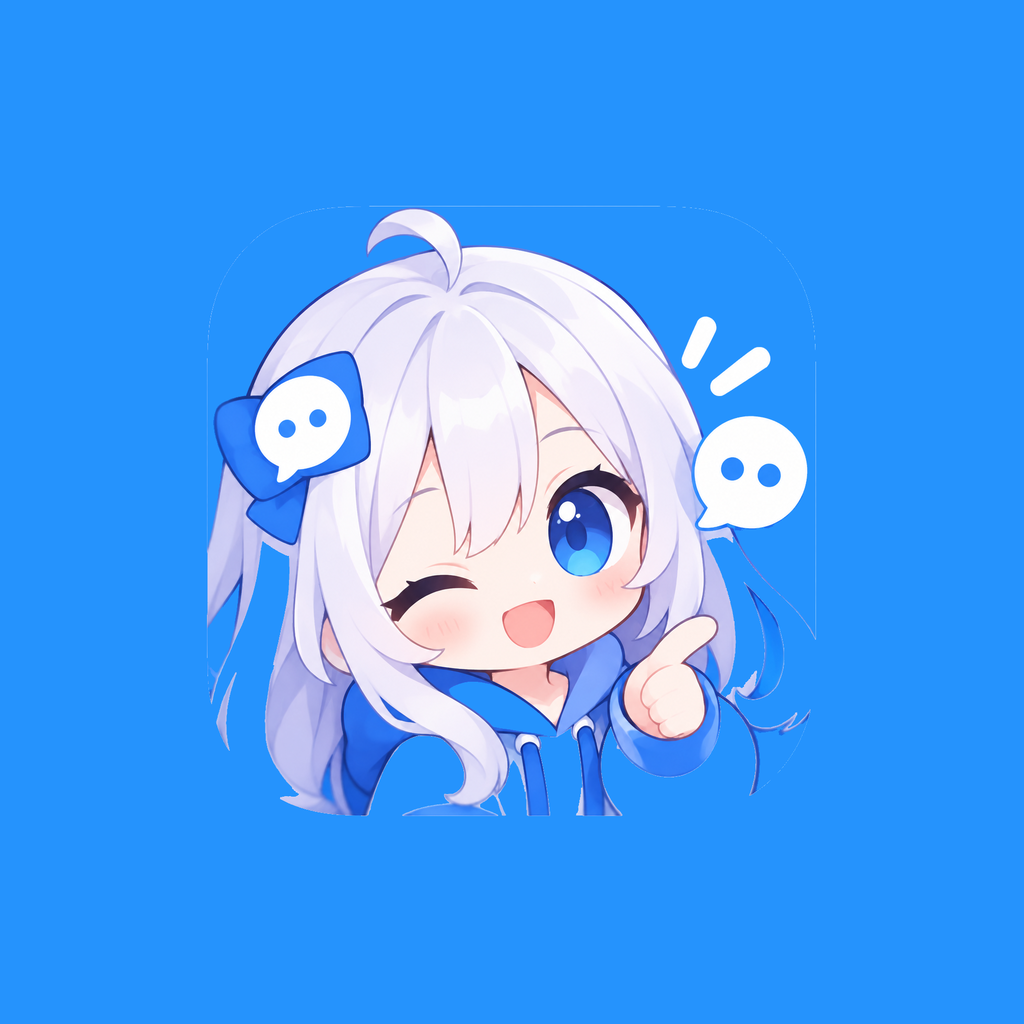
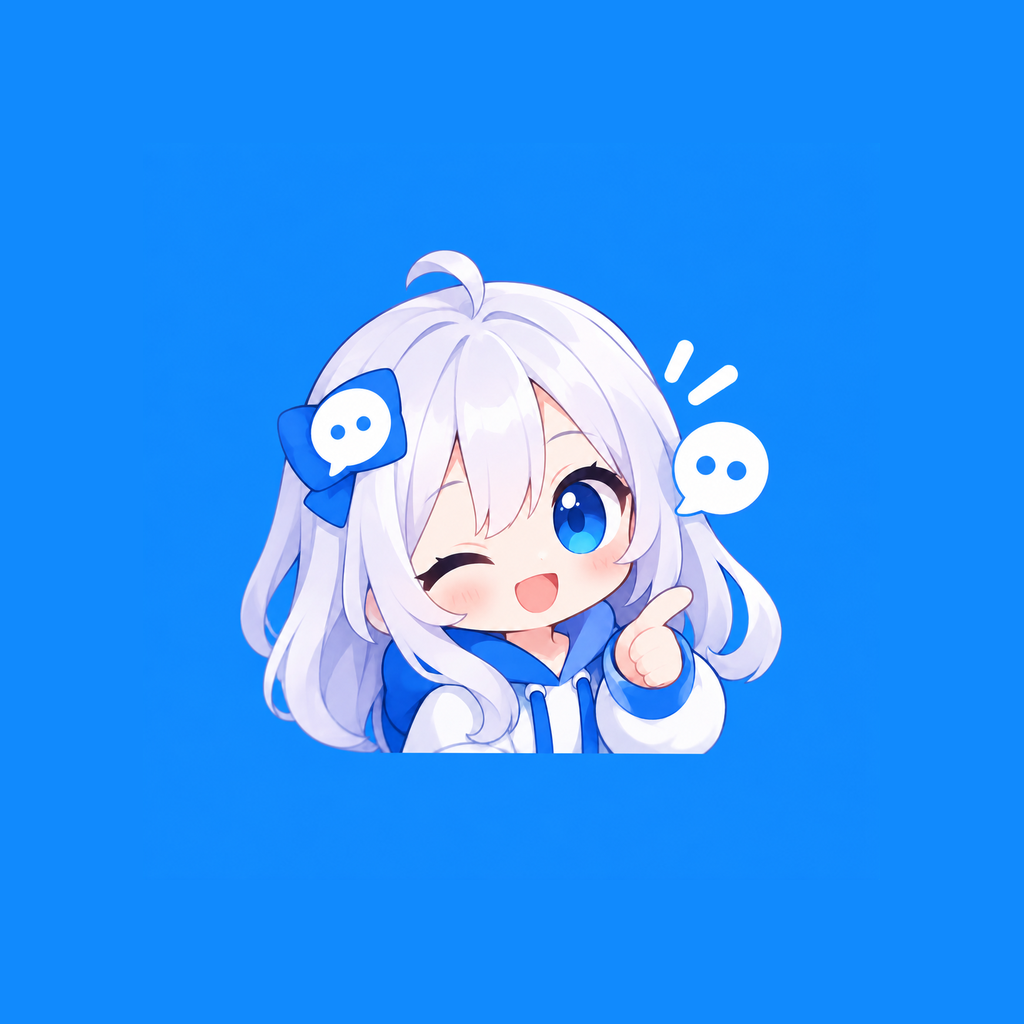
fix(assets): 更换为生图模型重做的 app 图标
- 用户用图生图重做：角色不变、蓝底铺满、四周留白 13%~17%，
  白发/发饰/手完整，不再有上一版抠图造成的断线
- 只做等比缩放到 1024 并居中（不抠图、不填色），
  自适应前景另缩到 72% 以适配 66% 安全区
- splash 同步为新图；app.json 与文档背景色统一为源图实测的 #118afd

Changed region(s): [[0.1875, 0.1875, 0.8125, 0.8125], [0.5625, 0.3438, 0.5938, 0.375]]

diff --git a/.monkeycode/docs/模块/构建与配置.md b/.monkeycode/docs/模块/构建与配置.md
@@ -7,7 +7,7 @@
 ```
 easychat2/
 ├── app.json                  # Expo 应用元数据与 Android 配置
-├── assets/                   # icon.png / adaptive-icon.png / splash.png（1024×1024，蓝色 #2593fd 底 + 默认助手角色）；
+├── assets/                   # icon.png / adaptive-icon.png / splash.png（1024×1024，蓝色 #118afd 底 + 默认助手角色）；
 │                             # easychat-assistant-avatar.jpg / -bg.jpg 为默认角色内置头像与背景，启动时落盘到 avatars/
 ├── eas.json                  # EAS Build profile
 ├── metro.config.js           # Metro 打包配置
@@ -25,7 +25,7 @@ easychat2/
 
 | 文件 | 目的 |
 |------|------|
-| `app.json` | 声明应用名、包名 `com.pppxxxy.easychat2`、暗色主题、Android 权限与 `expo-image-picker` 图片用途文案、EAS projectId，并通过 `withAsyncStorageDbSize` 将 Android AsyncStorage 数据库上限设为 1024 MiB；`icon` / `splash` / `android.adaptiveIcon` 指向 `assets/` 下的 1024×1024 资源，自适应图标前景为全出血蓝底图、背景色 `#2593fd` 与图标一致 |
+| `app.json` | 声明应用名、包名 `com.pppxxxy.easychat2`、暗色主题、Android 权限与 `expo-image-picker` 图片用途文案、EAS projectId，并通过 `withAsyncStorageDbSize` 将 Android AsyncStorage 数据库上限设为 1024 MiB；`icon` / `splash` / `android.adaptiveIcon` 指向 `assets/` 下的 1024×1024 资源，自适应图标前景为全出血蓝底图、背景色 `#118afd` 与图标一致 |
 | `metro.config.js` | 开启 `unstable_enablePackageExports`，解析 `parsecard` 的 ESM `exports` |
 | `babel.config.js` | 使用 `babel-preset-expo` |
 | `src/polyfills.js` | 在无 `global.Buffer` 时注入 `buffer` 的 `Buffer`，供 `parsecard` 使用 |
